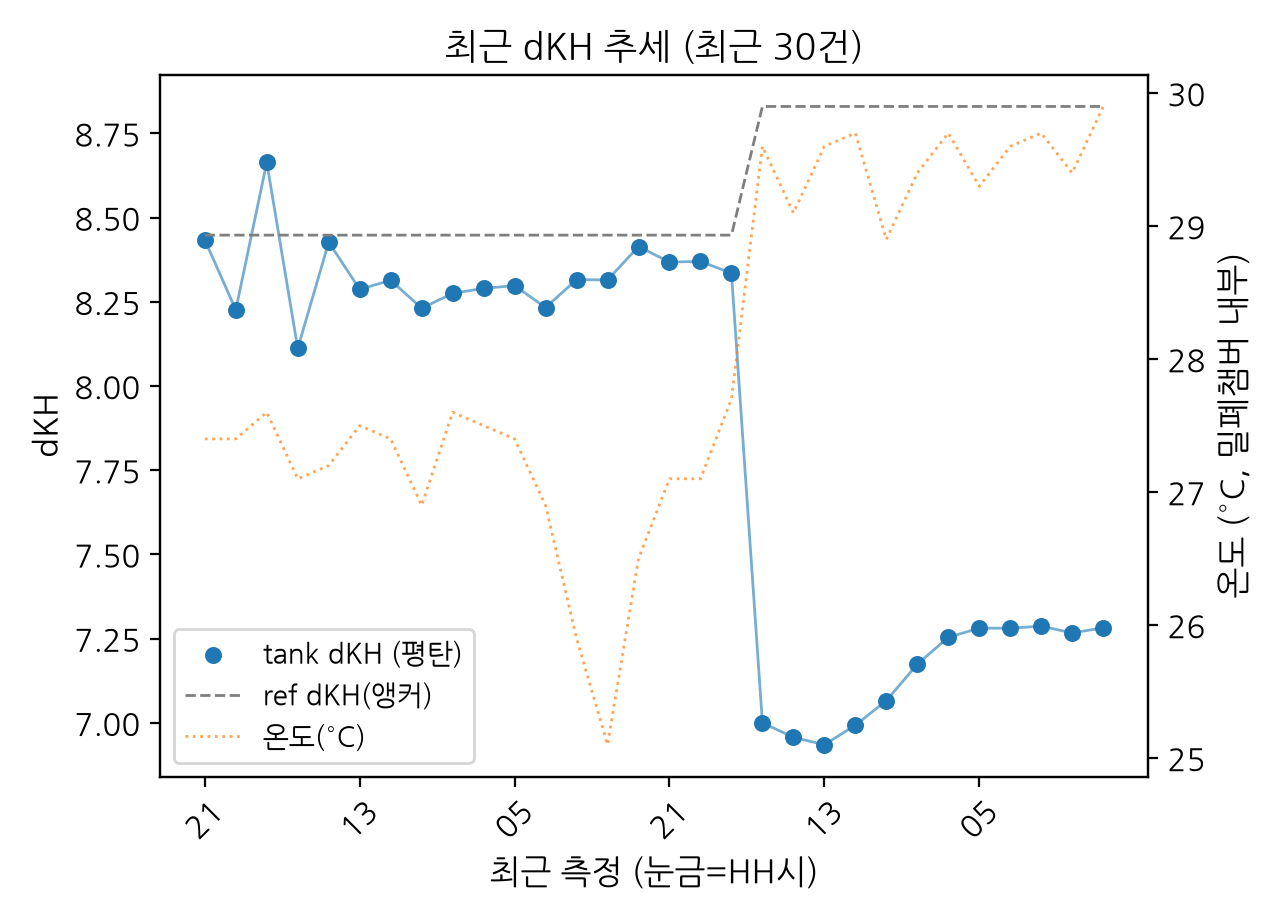
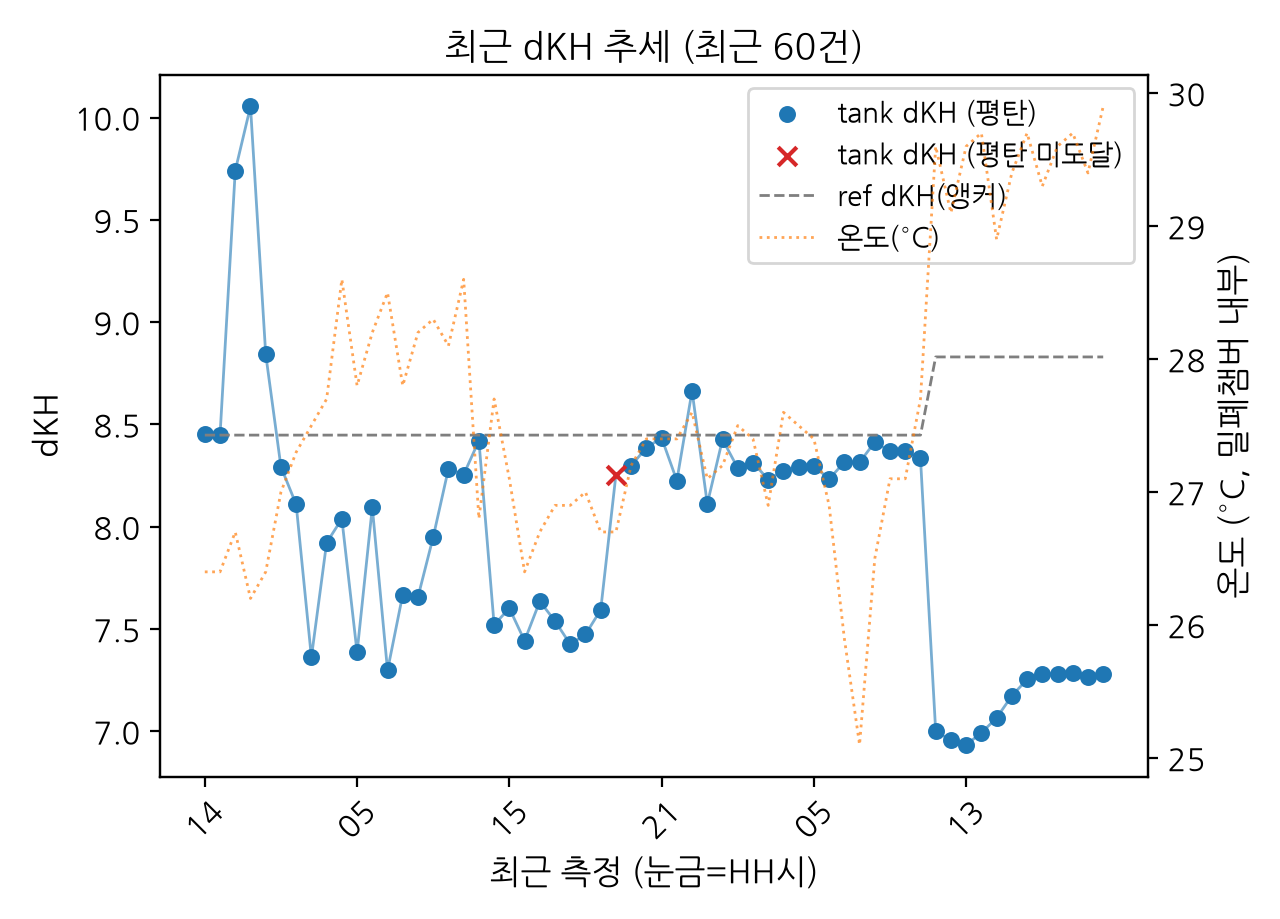
feat(pages): 대시보드 그래프를 정적 이미지 → 인터랙티브 차트로 전환
reef.anih.net(Recharts) 참고 — 우리는 프레임워크 없는 정적 페이지라
Chart.js를 자체 호스팅(docs/vendor)해 동일한 호버 툴팁 UX 구현. 최근
60건을 docs/dkh_series.json으로 내보내 tank/ref dKH·온도를 인덱스 기반
축으로 그리고, 지점을 짚으면 정확한 값과 평탄/미도달 여부가 뜬다. JS
비활성 환경 대비 noscript로 기존 정적 PNG 유지. plot_dkh.py에
--series-json 옵션 추가, Actions·서비스워커도 함께 갱신.

diff --git a/docs/index.html b/docs/index.html
@@ -9,6 +9,7 @@
 <link rel="manifest" href="manifest.webmanifest">
 <link rel="icon" href="icons/icon-192.png">
 <link rel="apple-touch-icon" href="icons/icon-192.png">
+<script src="vendor/chart.umd.min.js"></script>
 <style>
   :root {
     --teal: #0d5a66;
@@ -78,7 +79,7 @@
   section.graph-card {
     background: var(--card);
     border-radius: 18px;
-    padding: 0.8rem;
+    padding: 0.9rem 0.7rem;
     box-shadow: 0 6px 18px rgba(13, 90, 102, 0.12);
     margin-bottom: 1.2rem;
   }
@@ -87,6 +88,16 @@
     height: auto;
     border-radius: 10px;
     display: block;
+  }
+  .chart-wrap {
+    position: relative;
+    height: 270px;
+  }
+  p.chart-caption {
+    text-align: center;
+    color: var(--muted);
+    font-size: 0.74rem;
+    margin: 0.5rem 0 0;
   }
 
   nav.doc-links {
@@ -132,7 +143,11 @@
     <p class="updated" id="updated">최신값 불러오는 중…</p>
 
     <section class="graph-card">
-      <img class="graph" src="images/dkh_trend_mobile.png" alt="dKH 추세 그래프">
+      <div class="chart-wrap">
+        <canvas id="dkhChart"></canvas>
+      </div>
+      <p class="chart-caption">그래프를 눌러보거나 손가락으로 짚으면 각 지점의 값이 보입니다</p>
+      <noscript><img class="graph" src="images/dkh_trend_mobile.png" alt="dKH 추세 그래프"></noscript>
     </section>
 
     <nav class="doc-links">
@@ -170,6 +185,83 @@
     .catch(() => {
       document.getElementById("updated").textContent = "최신값을 불러오지 못했습니다";
     });
+
+  fetch("dkh_series.json", { cache: "no-store" })
+    .then((r) => r.json())
+    .then((series) => {
+      const labels = series.map((p) => p.hh);
+      const pointColors = series.map((p) => (p.is_flat ? "#12808f" : "#c0392b"));
+      const ctx = document.getElementById("dkhChart");
+      new Chart(ctx, {
+        type: "line",
+        data: {
+          labels,
+          datasets: [
+            {
+              label: "수조 dKH",
+              data: series.map((p) => p.tank_kh),
+              borderColor: "#12808f",
+              backgroundColor: "#12808f",
+              pointBackgroundColor: pointColors,
+              pointBorderColor: pointColors,
+              pointRadius: 3,
+              pointHoverRadius: 5,
+              tension: 0.15,
+              yAxisID: "y",
+            },
+            {
+              label: "기준(ref) dKH",
+              data: series.map((p) => p.ref_kh),
+              borderColor: "#94a3a8",
+              borderDash: [5, 4],
+              pointRadius: 0,
+              tension: 0,
+              yAxisID: "y",
+            },
+            {
+              label: "온도(°C)",
+              data: series.map((p) => p.temp),
+              borderColor: "#e08a2c",
+              borderDash: [2, 3],
+              pointRadius: 0,
+              tension: 0.15,
+              yAxisID: "y1",
+            },
+          ],
+        },
+        options: {
+          responsive: true,
+          maintainAspectRatio: false,
+          interaction: { mode: "index", intersect: false },
+          plugins: {
+            legend: { position: "bottom", labels: { boxHeight: 6, font: { size: 11 } } },
+            tooltip: {
+              callbacks: {
+                title: (items) => "최근 측정 " + series[items[0].dataIndex].hh + "시",
+                label: (item) => {
+                  const p = series[item.dataIndex];
+                  if (item.dataset.label === "수조 dKH") {
+                    return "수조 dKH: " + p.tank_kh.toFixed(3) + (p.is_flat ? "" : " (평탄 미도달)");
+                  }
+                  if (item.dataset.label === "기준(ref) dKH") return "기준(ref): " + p.ref_kh.toFixed(3);
+                  return "온도: " + p.temp.toFixed(1) + "°C";
+                },
+              },
+            },
+          },
+          scales: {
+            x: { ticks: { maxTicksLimit: 8, font: { size: 10 } } },
+            y: { position: "left", title: { display: true, text: "dKH" } },
+            y1: {
+              position: "right",
+              title: { display: true, text: "온도(°C)" },
+              grid: { drawOnChartArea: false },
+            },
+          },
+        },
+      });
+    })
+    .catch(() => {});
 </script>
 </body>
 </html>

diff --git a/docs/sw.js b/docs/sw.js
@@ -1,10 +1,11 @@
-const CACHE = "aquawiz-v1";
+const CACHE = "aquawiz-v2";
 const SHELL = [
   "./",
   "./index.html",
   "./manifest.webmanifest",
   "./icons/icon-192.png",
   "./icons/icon-512.png",
+  "./vendor/chart.umd.min.js",
 ];
 
 self.addEventListener("install", (event) => {

diff --git a/bin/plot_dkh.py b/bin/plot_dkh.py
@@ -105,6 +105,17 @@ def write_latest_json(rows, path):
     print(f"저장: {path}")
 
 
+def write_series_json(rows, path):
+    """대시보드 인터랙티브 차트용 — 그린 구간 그대로를 배열로 내보낸다."""
+    series = [
+        {"hh": hh, "ref_kh": ref_kh, "tank_kh": tank_kh, "temp": temp, "is_flat": is_flat}
+        for hh, ref_kh, tank_kh, temp, is_flat in rows
+    ]
+    with open(path, "w") as f:
+        json.dump(series, f, ensure_ascii=False)
+    print(f"저장: {path}")
+
+
 if __name__ == "__main__":
     ap = argparse.ArgumentParser(description=__doc__)
     ap.add_argument("dat_file", nargs="?", default="/mnt/c/dkh/work/dkh.dat",
@@ -115,6 +126,8 @@ if __name__ == "__main__":
                      help="마지막 N건만 그린다(옵션, 모바일 대시보드용 요약 차트)")
     ap.add_argument("--mobile", action="store_true",
                      help="작은 화면에 맞춘 큰 글씨·고정 비율로 렌더링")
+    ap.add_argument("--series-json", default=None,
+                     help="그려진 구간(--recent 적용분)을 배열 JSON으로 출력(옵션, 인터랙티브 차트용)")
     args = ap.parse_args()
 
     rows = load(args.dat_file)
@@ -122,3 +135,5 @@ if __name__ == "__main__":
     plot(plot_rows, args.out, mobile=args.mobile)
     if args.json:
         write_latest_json(rows, args.json)
+    if args.series_json:
+        write_series_json(plot_rows, args.series_json)